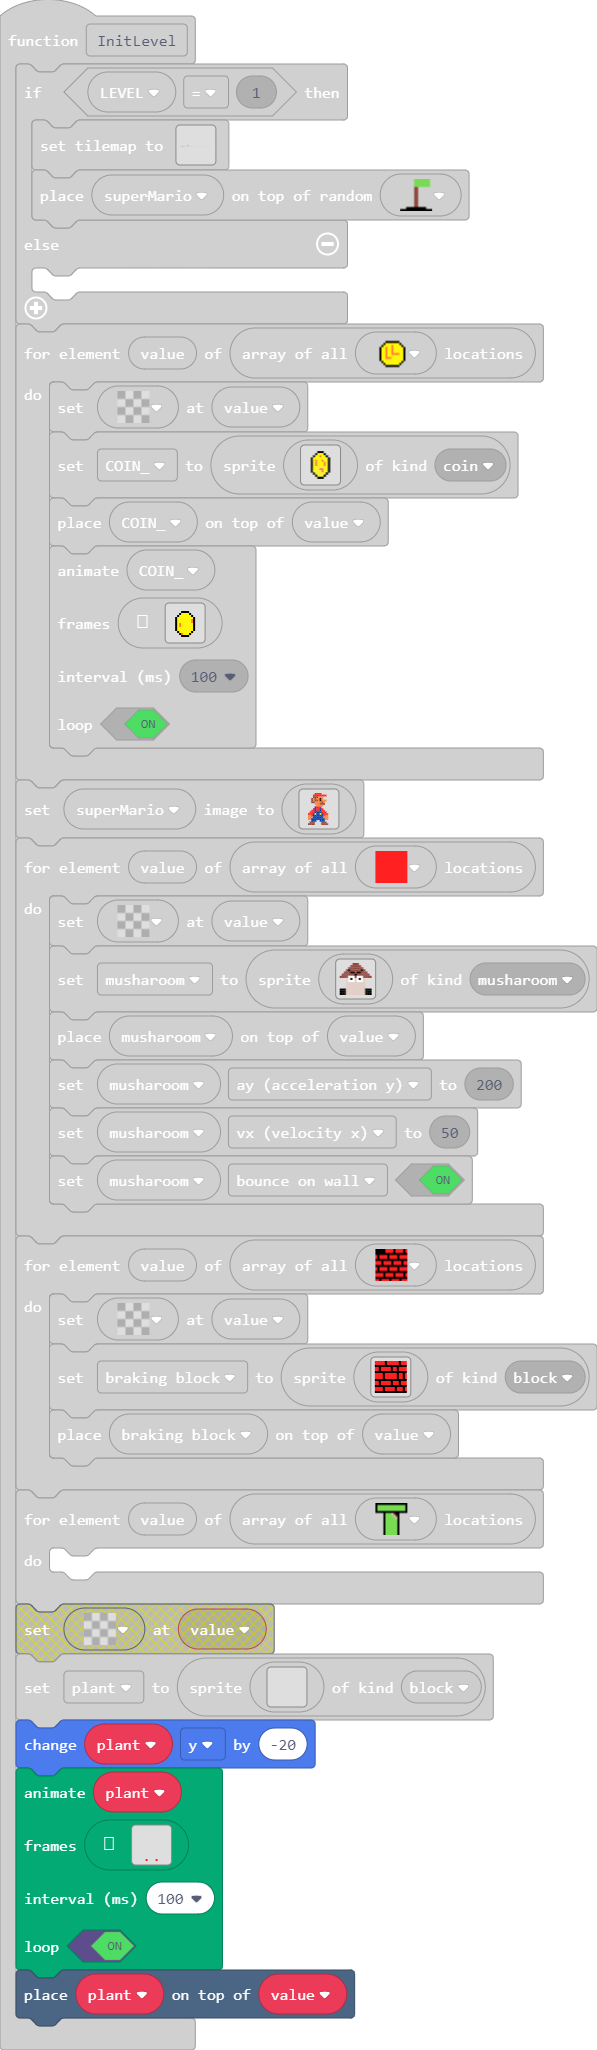
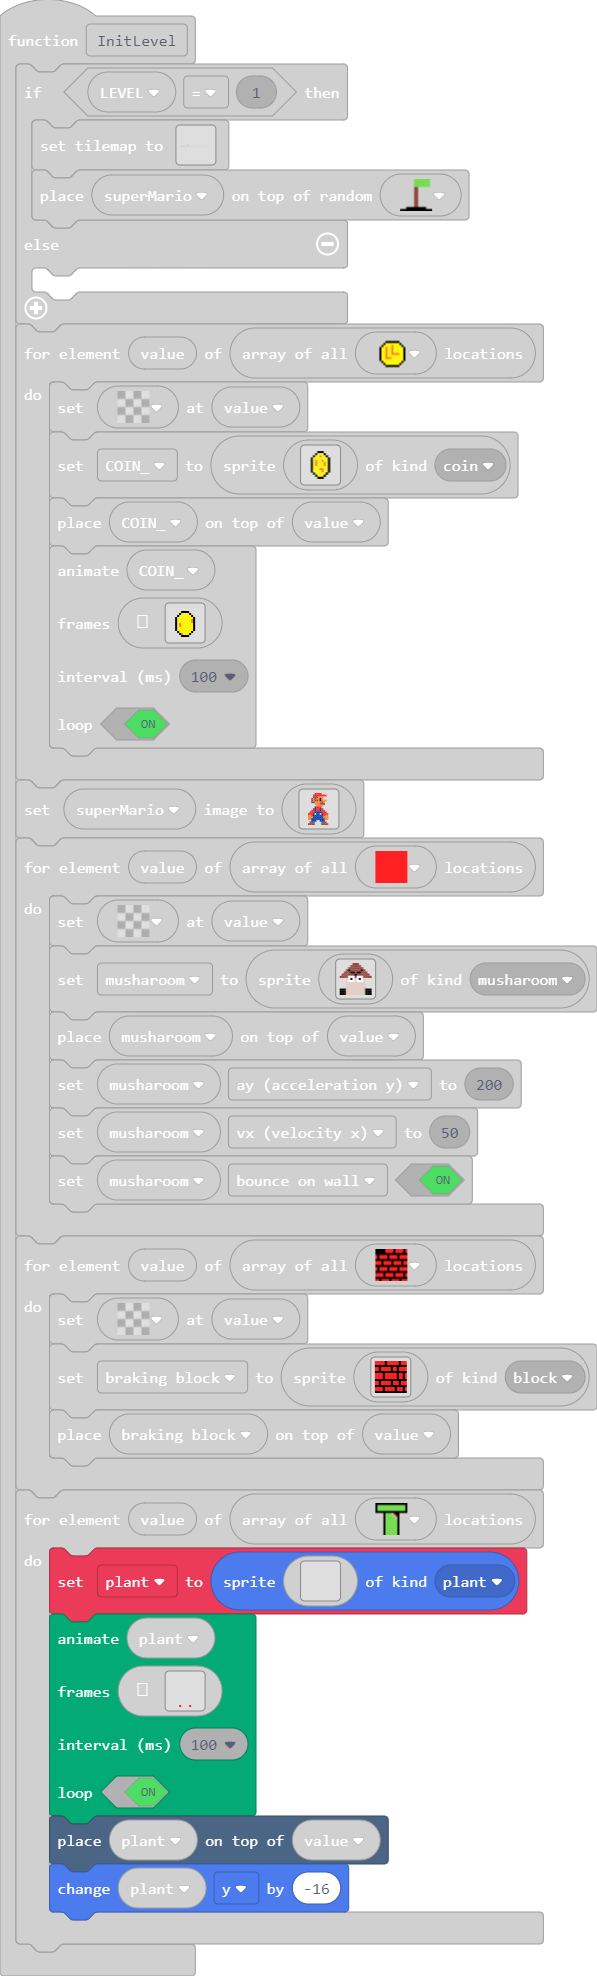
made plant

diff --git a/main.ts b/main.ts
@@ -2,6 +2,7 @@ namespace SpriteKind {
     export const coin = SpriteKind.create()
     export const musharoom = SpriteKind.create()
     export const block = SpriteKind.create()
+    export const plant = SpriteKind.create()
 }
 namespace myTiles {
     //% blockIdentity=images._tile
@@ -475,8 +476,7 @@ f f f f f f f f f f f f f f f f
 . . . . . . . . . . . . . . . . 
 . . . . . . . . . . . . . . . . 
 . . . . . . . . . . . . . . . . 
-`, SpriteKind.block)
-        plant.y += -20
+`, SpriteKind.plant)
         animation.runImageAnimation(
         plant,
         [img`
@@ -1283,6 +1283,7 @@ f f f f f f f f f f f f f f f f
         true
         )
         tiles.placeOnTile(plant, value)
+        plant.y += -16
     }
 }
 let plant: Sprite = null
